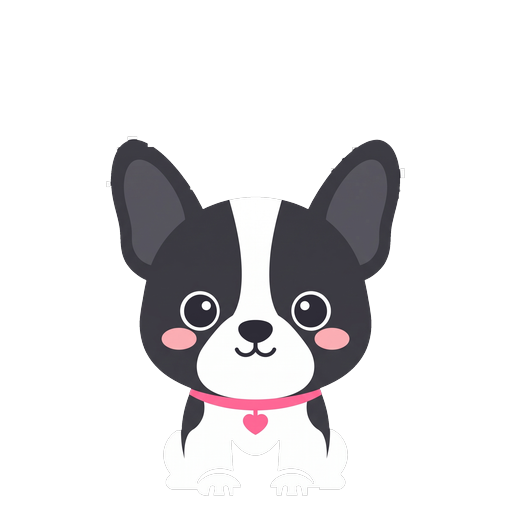
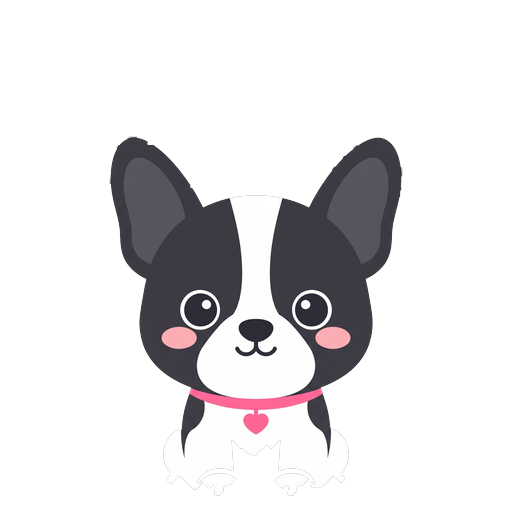
いちまつもようの けしのこりを けした（ビーグル・フレンチブルドッグ）
Gemini が JPG に やきこんだ とうめいの いちまつもようは、
はいいろの ますめを たよりに けして いた。まっしろな ますめは
いぬの しろい からだと 見わけが つかない ので わざと のこし、
あとで「ちいさい かたまり」として すてる しくみだった。
ところが 耳や しっぽに くっついた ますめは いぬと ひとつづきに
なって しまい、すてられずに のこって いた。

しあがりの かたちで 見わける しょりを ついか:
  のこった ますめ = ちいさい ましかく。まわりが とうめい
  ほんとうの しろ（目の ひかり など）= いぬに かこまれて いる

もとがぞうが いちまつの ときだけ はしる。
グリーンバックの ほかの 8犬種は これまで どおり。

beagle_lv3 の のこりは 2020 -> 428 ドットに なった。

diff --git a/tools_make_dog_png.py b/tools_make_dog_png.py
@@ -348,6 +348,74 @@ def drop_holes(keep, w, h, rgb, key, tol):
     return removed, holes
 
 
+CHK_FLAT_SAT  = 12       # これいか なら「いろみの ない」ドット
+CHK_FLAT_MIN  = 235      # これいじょう あかるければ いちまつの しろ かも
+CHK_AIR_MIN   = 0.15     # まわりが とうめいな わりあい
+CHK_SIZE      = 1.7      # ますめ なんこぶんまでを ゴミと みなすか
+
+
+def drop_checker_blobs(keep, w, h, rgb, P):
+    """いぬに くっついて のこった いちまつの ますめを すてる。
+
+    ちいさくて、たいらな しろで、まわりが とうめいな かたまり だけを ねらう。
+    目の ひかりの ような ほんとうの しろは いぬに かこまれて いる（まわりが
+    とうめいでは ない）ので のこる。
+    """
+    lim = int((P * CHK_SIZE) ** 2)
+    seen = bytearray(w * h)
+    removed = blobs = 0
+
+    def flat(i):
+        if not keep[i]:
+            return False
+        r, g, b = rgb[i * 3], rgb[i * 3 + 1], rgb[i * 3 + 2]
+        return (max(r, g, b) - min(r, g, b) <= CHK_FLAT_SAT and
+                min(r, g, b) >= CHK_FLAT_MIN)
+
+    for sy in range(h):
+        for sx in range(w):
+            i0 = sy * w + sx
+            if seen[i0] or not flat(i0):
+                continue
+            comp, q = [], deque([(sx, sy)])
+            seen[i0] = 1
+            while q:
+                x, y = q.popleft()
+                comp.append((x, y))
+                if len(comp) > lim:
+                    break
+                for dx, dy in ((1, 0), (-1, 0), (0, 1), (0, -1)):
+                    nx, ny = x + dx, y + dy
+                    if not (0 <= nx < w and 0 <= ny < h):
+                        continue
+                    j = ny * w + nx
+                    if not seen[j] and flat(j):
+                        seen[j] = 1
+                        q.append((nx, ny))
+            while q:                              # おおきすぎ。しるしだけ つけて とばす
+                x, y = q.popleft()
+                seen[y * w + x] = 1
+            if len(comp) > lim:
+                continue
+
+            cs = set(comp)
+            air = edge = 0
+            for (x, y) in comp:
+                for dx, dy in ((1, 0), (-1, 0), (0, 1), (0, -1)):
+                    nx, ny = x + dx, y + dy
+                    if (nx, ny) in cs:
+                        continue
+                    edge += 1
+                    if not (0 <= nx < w and 0 <= ny < h) or not keep[ny * w + nx]:
+                        air += 1
+            if edge and air / float(edge) >= CHK_AIR_MIN:
+                for (x, y) in comp:
+                    keep[y * w + x] = 0
+                removed += len(comp)
+                blobs += 1
+    return removed, blobs
+
+
 def process(src_path, out_name, target_h, align='bottom', pad=True):
     im0 = Image.open(src_path)
 
@@ -383,6 +451,14 @@ def process(src_path, out_name, target_h, align='bottom', pad=True):
         nhole, nh = drop_holes(keep, w, h, im.tobytes(), key, CHROMA_TOL)
         if nh:
             print('    あなを %d こ けしました（%d px）' % (nh, nhole))
+
+    else:
+        # いちまつの え だけ。いぬに くっついて のこった ますめを すてる。
+        grid = detect_grid(im)
+        if grid:
+            ndrop, nb = drop_checker_blobs(keep, w, h, im.tobytes(), grid[0])
+            if nb:
+                print('    いちまつの のこりを %d こ けしました（%d px）' % (nb, ndrop))
 
     alpha = Image.frombytes('L', (w, h), bytes(keep))
     for _ in range(SEPARATE):
